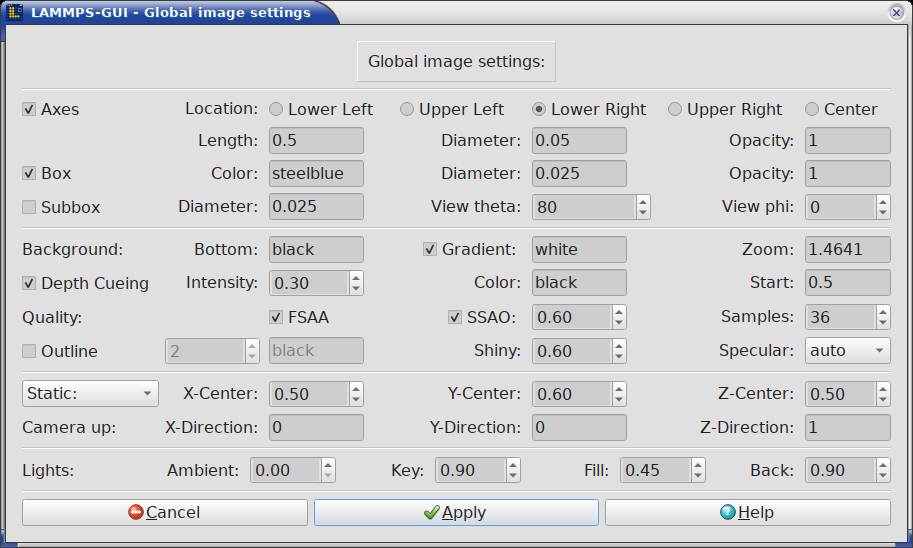
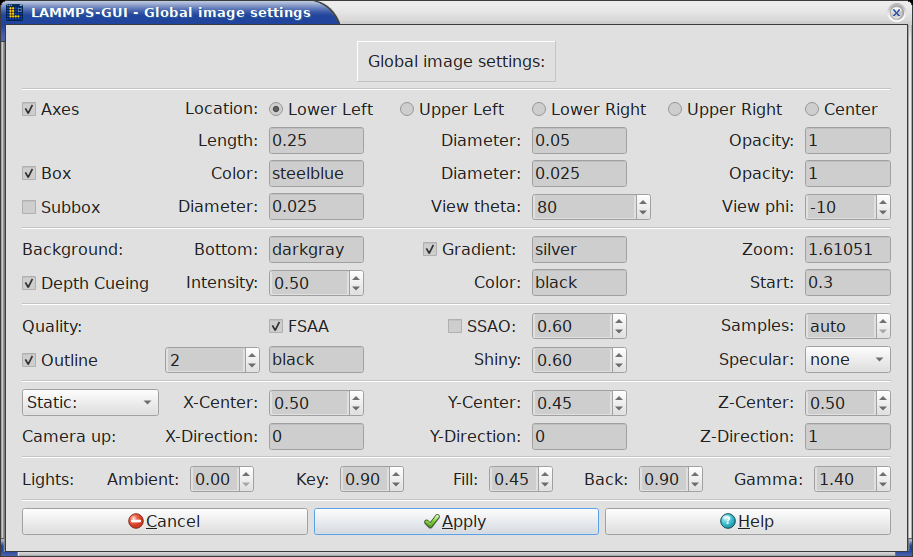
add support for image gamma adjustment in global image settings

Changed region(s): [[0.0, 0.1551, 0.9814, 0.9617], [0.0, 0.0, 0.9814, 0.062], [0.3987, 0.0931, 0.6134, 0.1241]]

diff --git a/src/imageviewersettings.cpp b/src/imageviewersettings.cpp
@@ -382,35 +382,45 @@ void ImageViewer::globalSettings()
     layout->addWidget(new QHline, idx++, 0, 1, MAXCOLS);
     auto *lightlayout = new QHBoxLayout;
     lightlayout->setSpacing(LAYOUT_SPACING);
-    lightlayout->addWidget(new QLabel("Lights: "), 1, Qt::AlignLeft);
-    lightlayout->addWidget(new QLabel("Ambient: "), 2, Qt::AlignRight);
+    lightlayout->addWidget(new QLabel("Lights: "), 2, Qt::AlignLeft);
+    lightlayout->addWidget(new QLabel("Ambient: "), 4, Qt::AlignRight);
     auto *ambient = new QDoubleSpinBox;
     ambient->setRange(0.0, 1.0);
     ambient->setSingleStep(0.05);
     ambient->setValue(ambientlight);
     ambient->setMaximumWidth(fwidth);
     lightlayout->addWidget(ambient, 2);
-    lightlayout->addWidget(new QLabel("Key: "), 2, Qt::AlignRight);
+    lightlayout->addWidget(new QLabel("Key: "), 3, Qt::AlignRight);
     auto *key = new QDoubleSpinBox;
     key->setRange(0.0, 1.0);
     key->setSingleStep(0.05);
     key->setValue(keylight);
     key->setMaximumWidth(fwidth);
     lightlayout->addWidget(key, 2);
-    lightlayout->addWidget(new QLabel("Fill: "), 2, Qt::AlignRight);
+    lightlayout->addWidget(new QLabel("Fill: "), 3, Qt::AlignRight);
     auto *fill = new QDoubleSpinBox;
     fill->setRange(0.0, 1.0);
     fill->setSingleStep(0.05);
     fill->setValue(filllight);
     fill->setMaximumWidth(fwidth);
     lightlayout->addWidget(fill, 2);
-    lightlayout->addWidget(new QLabel("Back: "), 2, Qt::AlignRight);
+    lightlayout->addWidget(new QLabel("Back: "), 3, Qt::AlignRight);
     auto *back = new QDoubleSpinBox;
     back->setRange(0.0, 1.0);
     back->setSingleStep(0.05);
     back->setValue(backlight);
     back->setMaximumWidth(fwidth);
     lightlayout->addWidget(back, 2);
+    lightlayout->addWidget(new QLabel("Gamma: "), 4, Qt::AlignRight);
+    auto *gamma = new QDoubleSpinBox;
+    gamma->setRange(0.1, 10.0);
+    gamma->setSingleStep(0.1);
+    gamma->setValue(gammaval);
+    gamma->setMaximumWidth(fwidth);
+    gamma->setToolTip("Gamma adjustment of the rendered objects; values above 1.0\n"
+                      "lighten the image and bring out shading detail in dimly lit\n"
+                      "regions, values below 1.0 darken it and increase the contrast");
+    lightlayout->addWidget(gamma, 2);
     layout->addLayout(lightlayout, idx++, 0, 1, MAXCOLS, Qt::AlignHCenter);
     layout->addWidget(new QHline, idx++, 0, 1, MAXCOLS);
 
@@ -530,6 +540,7 @@ void ImageViewer::globalSettings()
     keylight     = key->value();
     filllight    = fill->value();
     backlight    = back->value();
+    gammaval     = gamma->value();
 
     // update image with new settings
     createImage();

diff --git a/test/test_dumpimage.cpp b/test/test_dumpimage.cpp
@@ -121,6 +121,7 @@ DumpImageParams makeParams()
     p.keylight     = 0.7;
     p.filllight    = 0.3;
     p.backlight    = 0.2;
+    p.gammaval     = 1.0;
     p.version      = 20260704;
 
     p.colormap        = "BWR";
@@ -384,6 +385,7 @@ TEST(DumpImageCommand, DepthCueOutlineSpecular)
     EXPECT_FALSE(cmd.contains(" outline "));
     EXPECT_FALSE(cmd.contains(" specular "));
     EXPECT_FALSE(cmd.contains(" ssaosamples "));
+    EXPECT_FALSE(cmd.contains(" gamma "));
 
     p.usedepthcue    = true;
     p.depthcuefactor = 0.7;
@@ -404,6 +406,27 @@ TEST(DumpImageCommand, DepthCueOutlineSpecular)
     p.specular = "tight";
     cmd        = buildCmd(p);
     EXPECT_TRUE(cmd.contains(" specular tight")) << cmd.toStdString();
+}
+
+TEST(DumpImageCommand, GammaAdjustment)
+{
+    // the default gamma of 1.0 changes nothing and is pruned
+    auto p      = makeParams();
+    QString cmd = buildCmd(p);
+    EXPECT_FALSE(cmd.contains(" gamma ")) << cmd.toStdString();
+
+    p.gammaval = 1.4;
+    cmd        = buildCmd(p);
+    EXPECT_TRUE(cmd.contains(" gamma 1.4")) << cmd.toStdString();
+
+    // out-of-range values (LAMMPS accepts 0.1 - 10.0 only) are clamped
+    p.gammaval = 20.0;
+    cmd        = buildCmd(p);
+    EXPECT_TRUE(cmd.contains(" gamma 10")) << cmd.toStdString();
+
+    p.gammaval = 0.01;
+    cmd        = buildCmd(p);
+    EXPECT_TRUE(cmd.contains(" gamma 0.1")) << cmd.toStdString();
 }
 
 TEST(DumpImageCommand, SsaoSamplesOnlyWithSsao)
@@ -451,6 +474,7 @@ TEST(DumpImageCommand, AllDefaultsPruned)
     p.keylight     = 0.9;
     p.filllight    = 0.45;
     p.backlight    = 0.9;
+    p.gammaval     = 1.0;
     p.version      = 20260704;
 
     const QString cmd = buildCmd(p);
@@ -464,6 +488,7 @@ TEST(DumpImageCommand, AllDefaultsPruned)
     EXPECT_FALSE(cmd.contains(" atrans"));
     EXPECT_FALSE(cmd.contains(" btrans"));
     EXPECT_FALSE(cmd.contains(" lights"));
+    EXPECT_FALSE(cmd.contains(" gamma"));
     EXPECT_FALSE(cmd.contains(" subbox "));
     EXPECT_FALSE(cmd.contains(" axes "));
     EXPECT_FALSE(cmd.contains(" center "));

diff --git a/src/dumpimage.cpp b/src/dumpimage.cpp
@@ -29,6 +29,7 @@ constexpr double DEF_AMBIENT   = 0.0;
 constexpr double DEF_KEYLIGHT  = 0.9;
 constexpr double DEF_FILLLIGHT = 0.45;
 constexpr double DEF_BACKLIGHT = 0.9;
+constexpr double DEF_GAMMA     = 1.0; // no gamma adjustment
 const QString DEF_BOXCOLOR     = QStringLiteral("gold");
 const QString DEF_BACKCOLOR    = QStringLiteral("black");
 
@@ -361,6 +362,9 @@ DumpImageCommand buildDumpImageCommand(const DumpImageParams &p)
     if (p.specular != QStringLiteral("auto")) m += " specular " + p.specular;
     if (p.usessao && (p.ssaosamples > 0))
         m += QString(" ssaosamples %1").arg(qBound(4, p.ssaosamples, 64));
+
+    // a gamma value of 1.0 renders the summed up light contributions unchanged
+    if (p.gammaval != DEF_GAMMA) m += QString(" gamma %1").arg(qBound(0.1, p.gammaval, 10.0));
 
     if (p.useelements) m += blank + p.elements + blank + p.adiams + blank;
     if (p.usesigma) m += blank + p.adiams + blank;

diff --git a/src/imageviewer.h b/src/imageviewer.h
@@ -252,6 +252,7 @@ private:
     double keylight;                             ///< key light setting
     double filllight;                            ///< fill light setting
     double backlight;                            ///< back light setting
+    double gammaval;                             ///< gamma adjustment (1.0 = unchanged)
     QString axesloc;                             ///< Axes location
     QString boxcolor;                            ///< Color for box and subbox
     QString backcolor;                           ///< (lower) background color

diff --git a/src/dumpimage.h b/src/dumpimage.h
@@ -145,6 +145,8 @@ struct DumpImageParams {
     double keylight;                          ///< key light setting
     double filllight;                         ///< fill light setting
     double backlight;                         ///< back light setting
+    double gammaval;                          ///< gamma adjustment of rendered objects
+                                              ///< (0.1 - 10.0), 1.0 = unchanged
     int version;                              ///< LAMMPS version (date) id
 
     // ---- color maps (atoms / bonds) ----

diff --git a/src/imageviewer.cpp b/src/imageviewer.cpp
@@ -747,6 +747,7 @@ void ImageViewer::readImageSettings()
     outlinewidth   = 2;
     outlinecolor   = "black";
     specular       = "auto";
+    gammaval       = 1.0;
     atomcustom     = false;
     atomtrans      = 1.0;
     bondtrans      = 1.0;
@@ -1534,6 +1535,7 @@ DumpImageParams ImageViewer::gatherDumpImageParams(const QString &dumpfilename)
     p.keylight     = keylight;
     p.filllight    = filllight;
     p.backlight    = backlight;
+    p.gammaval     = gammaval;
 
     // colormap
     p.colormap        = colormap;

diff --git a/doc/visualization.rst b/doc/visualization.rst
@@ -330,11 +330,11 @@ settings panel or by using the `Alt-L` keyboard shortcut.  The settings
 in this dialog correspond to options of the LAMMPS `dump image and
 dump_modify commands <https://docs.lammps.org/dump_image.html>`_.
 
-.. |global|  image:: JPG/lammps-gui-image-settings.png
-                     :width: 61%
-
 .. |boxaxes| image:: JPG/lammps-gui-image-box-axes.png
-                     :width: 38%
+                     :width: 42%
+
+.. |global|  image:: JPG/lammps-gui-image-settings.png
+                     :width: 57%
 
 |boxaxes|  |global|
 
@@ -464,9 +464,9 @@ The dialog is organized into the following sections:
      systems, where the Z-direction entry is disabled.
 
 **Lighting**
-   Adjusts the settings for the four light sources used in the
-   rendering.  Each value is a floating point number (range: 0.0 -- 1.0)
-   representing the intensity of the respective light source.
+   Adjusts the settings for the four light sources used in the rendering
+   and the tonal balance of the result.  The intensity of each light
+   source is a floating point number in the range 0.0 -- 1.0.
 
    - **Ambient**: The intensity of the uniform, non-directional base
      lighting that illuminates all parts of the scene equally.
@@ -477,6 +477,13 @@ The dialog is organized into the following sections:
    - **Back**: The intensity of the tertiary directional light source
      that illuminates the back of the objects, helping to separate
      them from the background.
+   - **Gamma**: The gamma adjustment applied to the summed up light
+     contributions of the rendered objects (range: 0.1 -- 10.0, default
+     1.0 = unchanged).  Values above 1.0 lighten the image, most
+     strongly in the darker regions, and thus can bring out shading
+     detail on the dimly lit side of objects; values below 1.0 darken
+     the image and increase its contrast.  The background colors are
+     not affected.
 
 Press **Apply** to apply the current settings and re-render the image,
 or **Cancel** to discard changes.  The **Help** button opens the LAMMPS
